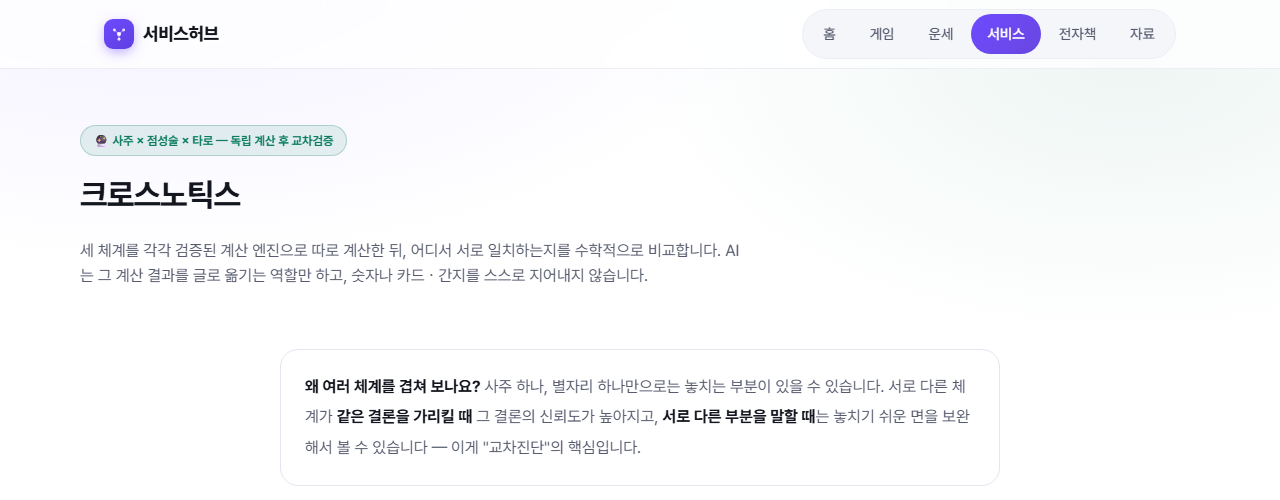
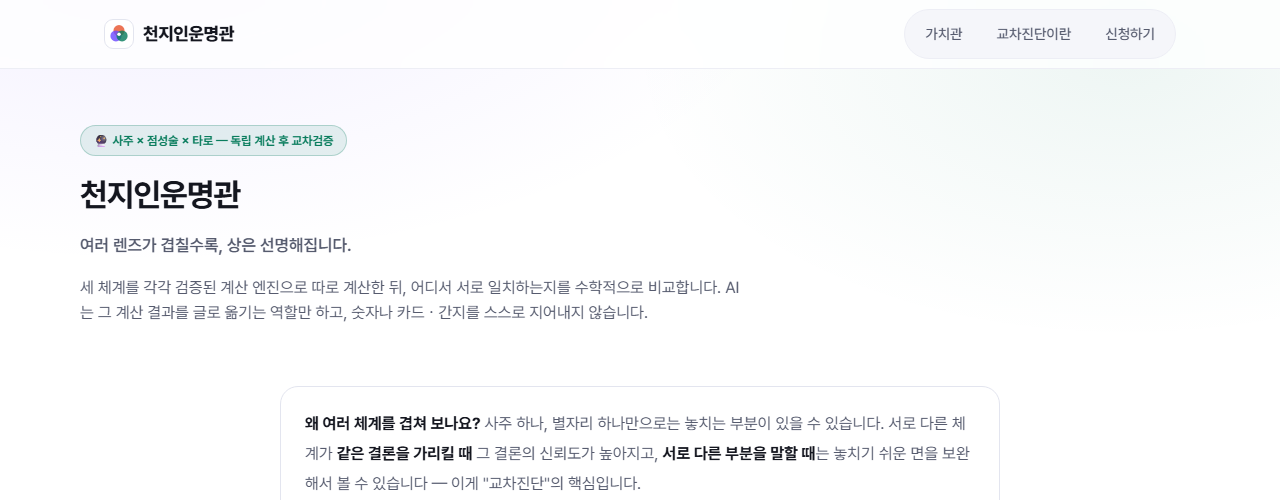
마케팅 콘텐츠(스레드ㆍ인스타ㆍ네이버ㆍ티스토리)도 새 브랜드명으로 갱신
브랜드명이 크로스노틱스 → 천지인운명관으로 바뀐 데 맞춰 원고 텍스트ㆍ
태그ㆍ대체텍스트를 전부 수정. 카드뉴스/릴스 영상은 슬라이드 문구에
브랜드명이 없어 재생성 불필요. 블로그 글 실제 화면 캡처는 새 로고ㆍ
가치관 섹션ㆍ브랜드명이 반영된 화면으로 재촬영(캡처 스크립트도 요소가
뷰포트 밖에 있을 때 스크롤 후 캡처하도록 버그 수정).

diff --git a/marketing/drafts/blog/naver/20260821_crossnotics.html b/marketing/drafts/blog/naver/20260821_crossnotics.html
@@ -41,6 +41,6 @@ a { color: #1a5fd0; }
 <div class="tag-box">
 <p class="tag-label">🏷 태그 (본문에 붙여넣지 말고, 발행 화면의 "태그 편집"란에 따로 입력하세요)</p>
 <p class="tag-text">사주, AI사주, 서양점성술, 타로, 사주풀이, 네이탈차트, 사주별자리타로,
-크로스노틱스</p>
+천지인운명관</p>
 </div>
 </body></html>

diff --git a/marketing/drafts/blog/tistory/20260821_crossnotics.html b/marketing/drafts/blog/tistory/20260821_crossnotics.html
@@ -49,6 +49,6 @@ a { color: #1a5fd0; }
 <div class="tag-box">
 <p class="tag-label">🏷 태그 (본문에 붙여넣지 말고, 발행 설정의 "태그" 입력란에 따로 입력하세요)</p>
 <p class="tag-text">사주, AI사주, 서양점성술, 타로, 네이탈차트, 사주풀이, 교차검증,
-크로스노틱스</p>
+천지인운명관</p>
 </div>
 </body></html>

diff --git a/marketing/drafts/blog/capture_crossnotics.py b/marketing/drafts/blog/capture_crossnotics.py
@@ -1,4 +1,4 @@
-"""크로스노틱스 페이지 실제 화면 캡처 — 블로그 글용(6-2 규칙: 7장 고정).
+"""천지인운명관 페이지 실제 화면 캡처 — 블로그 글용(6-2 규칙: 7장 고정).
 로컬 서버(http://localhost:8768)가 떠있는 상태에서 실행."""
 import time
 from pathlib import Path
@@ -18,6 +18,15 @@ def go(page, name, wait=1.2, clip=None):
         print(name, "실패:", e)
 
 
+def go_el(page, name, el):
+    # clip은 뷰포트 기준이라, 페이지가 길어져 요소가 초기 뷰포트(900px) 밖에 있으면
+    # "Clipped area is outside the resulting image" 에러가 남 — 캡처 전에 항상
+    # 스크롤해서 뷰포트 안으로 넣은 뒤 좌표를 다시 읽어야 함(실제로 이 문제로 실패해서 확인함).
+    el.scroll_into_view_if_needed()
+    page.wait_for_timeout(150)
+    go(page, name, clip=el.bounding_box())
+
+
 with sync_playwright() as p:
     browser = p.chromium.launch()
     page = browser.new_page(viewport={"width": 1280, "height": 900})
@@ -30,14 +39,14 @@ with sync_playwright() as p:
     # 02: 철학 박스
     el = page.query_selector(".cn-philosophy")
     if el:
-        go(page, "02_philosophy", clip=el.bounding_box())
+        go_el(page, "02_philosophy", el)
 
     # 03: 가격 카드 3개 전체 — 가격은 가림(6-3 원칙: 홍보 콘텐츠에 가격 노출 금지,
     # 판매 페이지 자체는 예외지만 이건 그 화면을 "홍보 이미지"로 재사용하는 거라 적용됨)
     page.evaluate("document.querySelectorAll('.cn-tier-price').forEach(el => el.style.visibility = 'hidden')")
     el = page.query_selector(".cn-tiers")
     if el:
-        go(page, "03_tiers", clip=el.bounding_box())
+        go_el(page, "03_tiers", el)
 
     # 04~06: 각 티어 카드 클릭했을 때 폼이 바뀌는 모습(질문개수/출생지 필드)
     # renderTiers()가 매 클릭마다 카드 DOM을 통째로 새로 그리므로, 이전에 잡아둔 핸들이
@@ -49,7 +58,7 @@ with sync_playwright() as p:
         time.sleep(0.3)
         el = page.query_selector("#cn-form")
         if el:
-            go(page, label, clip=el.bounding_box())
+            go_el(page, label, el)
 
     # 07: 전체 페이지 풀샷(축소)
     go(page, "07_full_page")

diff --git a/marketing/drafts/threads/build_crossnotics_cards.py b/marketing/drafts/threads/build_crossnotics_cards.py
@@ -1,4 +1,4 @@
-"""손글씨 편지 카드뉴스 — 크로스노틱스(사주ㆍ별자리ㆍ타로 교차진단).
+"""손글씨 편지 카드뉴스 — 천지인운명관(사주ㆍ별자리ㆍ타로 교차진단).
 
 가이드 안의 실제 사실(대부분 AI 사주는 검증 없는 챗봇 직답ㆍ우리는 계산 프로그램이 먼저
 계산하고 AI는 번역만 함ㆍ체계 간 일치도를 실제로 계산해서 보여줌)을 카드에 직접 넣어서

diff --git a/marketing/drafts/threads/build_crossnotics_reels.py b/marketing/drafts/threads/build_crossnotics_reels.py
@@ -1,4 +1,4 @@
-"""크로스노틱스 — 릴스용 9:16 손글씨 카드뉴스 + 슬라이드쇼 영상."""
+"""천지인운명관 — 릴스용 9:16 손글씨 카드뉴스 + 슬라이드쇼 영상."""
 from pathlib import Path
 
 from build_crossnotics_cards import SLIDES

diff --git a/marketing/drafts/instagram/20260821_crossnotics_reels_caption.md b/marketing/drafts/instagram/20260821_crossnotics_reels_caption.md
@@ -1,4 +1,4 @@
-# 인스타그램 릴스 캡션 — 크로스노틱스(사주ㆍ별자리ㆍ타로 교차진단)
+# 인스타그램 릴스 캡션 — 천지인운명관(사주ㆍ별자리ㆍ타로 교차진단)
 
 영상: `threads/reels_crossnotics.mp4` (9:16, 무음). 릴스로 올리고, 스레드에는 같은 영상을
 앱에서 직접 한 번 더 업로드(자동 공유 토글은 동영상 게시물에는 없는 것으로 확인됨 —
@@ -14,18 +14,18 @@ MARKETING_HANDOFF.md 0-0-2 참고).
 
 궁금하신 분은 프로필 링크 확인해주세요.
 
-#사주 #AI사주 #별자리 #타로 #사주풀이 #교차검증 #사주별자리타로 #크로스노틱스
+#사주 #AI사주 #별자리 #타로 #사주풀이 #교차검증 #사주별자리타로 #천지인운명관
 
 ## 대체 텍스트(alt text)
 1. card_1.png: 사주 하나만 보고 믿어도 될까 고민된다는 손글씨 편지 카드뉴스 표지
 2. card_2.png: 대부분 AI 사주는 그냥 챗봇한테 물어보는 거였다는 손글씨 문제 제기
 3. card_3.png: 계산 프로그램이 먼저 계산하고 AI는 번역만 하게 만들었다는 손글씨 설명
 4. card_4.png: 사주ㆍ별자리ㆍ타로가 서로 같은 얘기하는지도 계산해서 보여준다는 손글씨 설명
-5. card_5.png: 크로스노틱스 프로필 링크 확인 안내 카드뉴스
+5. card_5.png: 천지인운명관 프로필 링크 확인 안내 카드뉴스
 
 ## 게시 링크
 https://ekdrmf-cell.github.io/crossnotics/index.html
 
-**⚠ 게시 전 확인**: 이 링크는 오늘 만든 크로스노틱스 페이지가 실제 라이브 사이트에
+**⚠ 게시 전 확인**: 이 링크는 오늘 만든 천지인운명관 페이지가 실제 라이브 사이트에
 배포된 뒤에만 작동합니다. 아직 `git push`를 안 해서 로컬에만 있는 상태 — 사장님이
 직접 터미널에서 `git push` 실행하신 뒤에 이 콘텐츠를 올려주세요.

diff --git a/marketing/drafts/threads/20260821_crossnotics.md b/marketing/drafts/threads/20260821_crossnotics.md
@@ -1,4 +1,4 @@
-# 스레드 초안 — 크로스노틱스(사주ㆍ별자리ㆍ타로 교차진단)
+# 스레드 초안 — 천지인운명관(사주ㆍ별자리ㆍ타로 교차진단)
 
 ## 버전 A (경험담 톤 — 해요체)
 사주 상세해석 받아본 적 있는 분?
@@ -33,5 +33,5 @@ AI는 그거 번역만 하게 만들었어
 ## 게시 링크
 https://ekdrmf-cell.github.io/crossnotics/index.html
 
-**⚠ 게시 전 확인**: 크로스노틱스 페이지가 아직 로컬에만 있고 라이브 사이트에 배포 안 됨 —
+**⚠ 게시 전 확인**: 천지인운명관 페이지가 아직 로컬에만 있고 라이브 사이트에 배포 안 됨 —
 `git push` 먼저 실행한 뒤에 이 링크가 작동합니다.

diff --git a/marketing/drafts/blog/naver/20260821_crossnotics.md b/marketing/drafts/blog/naver/20260821_crossnotics.md
@@ -67,7 +67,7 @@ https://ekdrmf-cell.github.io/crossnotics/index.html
 
 [태그 - 발행 화면 하단 "태그 편집"에 이대로 입력]
 사주, AI사주, 서양점성술, 타로, 사주풀이, 네이탈차트, 사주별자리타로,
-크로스노틱스
+천지인운명관
 
 [쓰는 법 — 이제 이 방법을 기본으로 쓰세요]
 ⚠ 발행 전 필수 확인: 이 글의 링크(crossnotics/index.html)는 오늘 만든

diff --git a/marketing/drafts/blog/tistory/20260821_crossnotics.md b/marketing/drafts/blog/tistory/20260821_crossnotics.md
@@ -101,7 +101,7 @@ https://ekdrmf-cell.github.io/crossnotics/index.html
 
 [태그 - 발행 화면 "태그" 입력란에 이대로 입력]
 사주, AI사주, 서양점성술, 타로, 네이탈차트, 사주풀이, 교차검증,
-크로스노틱스
+천지인운명관
 
 [쓰는 법 — 훨씬 쉬운 방법]
 ⚠ 발행 전 필수 확인: 이 글의 링크(crossnotics/index.html)는 오늘 만든
